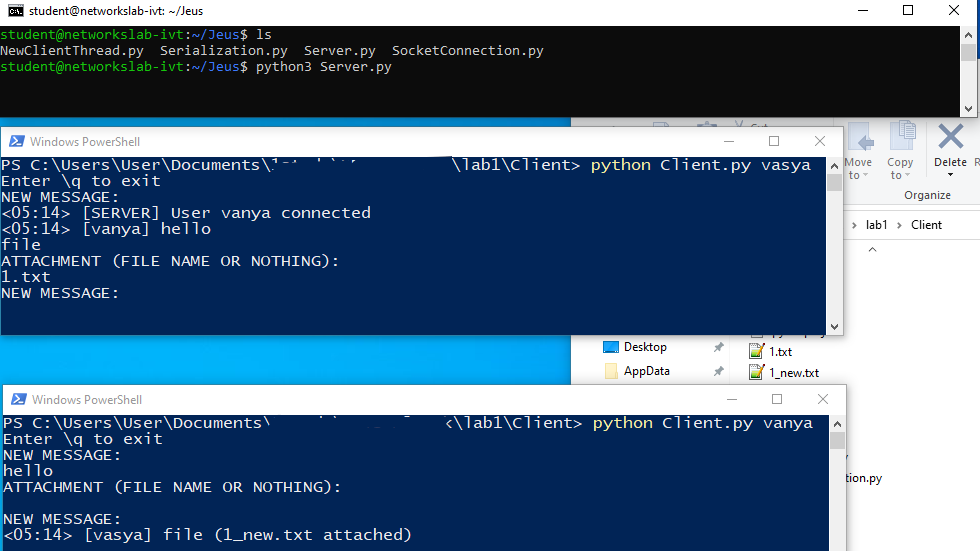
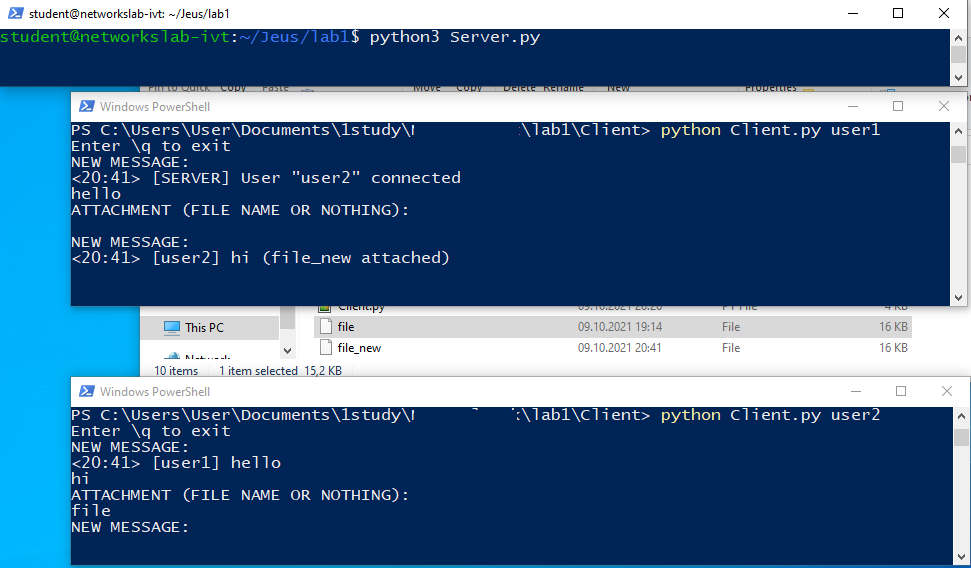
lab1

diff --git a/lab1/Server/NewClientThread.py b/lab1/Server/NewClientThread.py
@@ -11,8 +11,9 @@ class NewClientThread(threading.Thread):
 		self.nickname = None
 
 	def registration(self):
-		result = True
 		data = self.sock.recv()
+		if len(data) == 0: return False
+		result = True
 		dictionary = Serialization.load(data)
 		if not "nickname" in dictionary:
 			answer = {"status":"error: nickname is required"}
@@ -43,23 +44,21 @@ class NewClientThread(threading.Thread):
 		
 		# notify everyone about the connection of a new user
 		message = {"time":self.getCurrentTimeInUTC(), "nickname":"SERVER",
-				"text":"User " + self.nickname + " connected"}
+				"text":"User \"" + self.nickname + "\" connected"}
 		self.sendToEveryone(message)
 		
 		while True:
-			data = self.sock.recv() # receiving new message
-			dictionary = Serialization.load(data)
-			if dictionary == None: # socket is closed
+			data = self.sock.recv()
+			if len(data) == 0: # socket is closed
 				message = {"time":self.getCurrentTimeInUTC(), "nickname":"SERVER",
-						"text":"User " + self.nickname + " disconnected"}
+						"text":"User \"" + self.nickname + "\" disconnected"}
 				self.sendToEveryone(message)
 				
 				self.nickname = None
 				self.sock.close()
 				break
-			
-			# error	
-			if not ("text" in dictionary): continue
+			dictionary = Serialization.load(data)
+			if not ("text" in dictionary): continue # error	
 			
 			# sending a message to all interlocutors
 			message = {"time":self.getCurrentTimeInUTC(), 

diff --git a/lab1/Client/Client.py b/lab1/Client/Client.py
@@ -10,7 +10,7 @@ if len(sys.argv) != 2:
 
 client_socket = socket.socket(socket.AF_INET, socket.SOCK_STREAM)
 try:
-	client_socket.connect(("127.0.0.1", 23480)) # networkslab-ivt.ftp.sh
+	client_socket.connect(("networkslab-ivt.ftp.sh", 23480)) # networkslab-ivt.ftp.sh / 127.0.0.1
 except socket.error:
 	print("Server is unavailable")
 	exit()
@@ -47,12 +47,13 @@ def getLocalTime(utcTime):
 
 def getMessage(disconnect_event):
 	while True:
-		dictionary = Serialization.load(sock.recv())
-		if dictionary == None: # socket is closed
+		data = sock.recv()
+		if len(data) == 0: # socket is closed
 			print("\nDisconnected")
 			disconnect_event.set()
 			break
 		
+		dictionary = Serialization.load(data)
 		if "time" in dictionary and "nickname" in dictionary and "text" in dictionary:
 			time = getLocalTime(Serialization.bytesToStr(dictionary["time"]))
 			print("<" + time + "> [" 
@@ -60,7 +61,7 @@ def getMessage(disconnect_event):
 				+ Serialization.bytesToStr(dictionary["text"]), end = "")
 		
 		if "attachment" in dictionary:
-			file_data = sock.recv()
+			file_data = sock.recv() # receive attachment (file)
 			file_name = getNonExistentName(Serialization.bytesToStr(dictionary["attachment"]))
 			with open(file_name, "wb") as f:
 				f.write(file_data)

diff --git a/lab1/Client/SocketConnection.py b/lab1/Client/SocketConnection.py
@@ -23,16 +23,10 @@ class SocketConnection:
 			(length, ) = struct.unpack(">I", data) # > = big endian, I = 4 bytes
 			result = b''
 			while True:
-				delta = length - len(result)
-				if delta >= 4096:
-					data = self.sock.recv(4096)
-					if len(data) != 4096: return b''
-					result += data
-				else:
-					data = self.sock.recv(delta)
-					if len(data) != delta: return b''
-					result += data
-					break
+				data = self.sock.recv(length)
+				result += data
+				length -= len(data)
+				if length == 0: break
 		except socket.error:
 			result = b''
 		return result

diff --git a/lab1/Server/SocketConnection.py b/lab1/Server/SocketConnection.py
@@ -23,16 +23,10 @@ class SocketConnection:
 			(length, ) = struct.unpack(">I", data) # > = big endian, I = 4 bytes
 			result = b''
 			while True:
-				delta = length - len(result)
-				if delta >= 4096:
-					data = self.sock.recv(4096)
-					if len(data) != 4096: return b''
-					result += data
-				else:
-					data = self.sock.recv(delta)
-					if len(data) != delta: return b''
-					result += data
-					break
+				data = self.sock.recv(length)
+				result += data
+				length -= len(data)
+				if length == 0: break
 		except socket.error:
 			result = b''
 		return result
